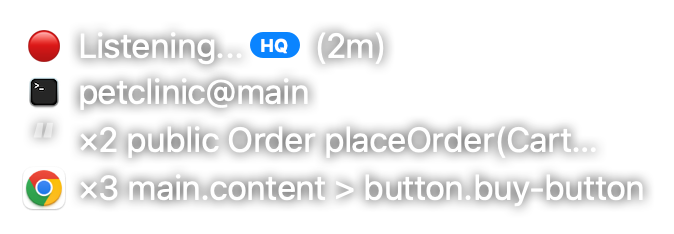
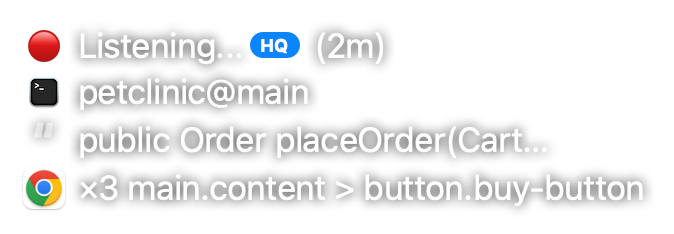
The highlight gets four seconds, then collapses to its count
The selection row carried the quoted highlight beside the cursor for the whole
dictation. Two different questions were riding one row with two different expiry
dates: at the instant a highlight lands he is asking *did this catch the thing I
meant?*, and his own words back are the whole answer — but once he has read them
the only open question left is whether any of them fell out, which a count
answers on its own. So the widest row on the chip was restating something already
checked, for as long as two minutes, an inch from what he is reading.

It now holds the words for four seconds and then drops them: `“ ×3`, and nothing
else. Victor's ask and his shape for it — *"citatul îl ții un pic acolo și apoi
îl colapsezi doar într-un număr"*.

- The hold belongs to every highlight now, not to the shutter's verb. It was
  2.5s and it only ever timed out the `selecting` prefix; the words underneath
  never went. The opening probe's highlight is as new to him as one a press read,
  so there is no reading on which one earns the seconds and the other does not.
- `×1` is written out, unlike `📸 ×N` and `🎯 ×N`, which say nothing at one. There
  the count is a prefix to something; here it is all that is left, so a row that
  went blank for the first highlight would read as one that lost it.
- `pinSelectionSettled()` is what lets the catalogue photograph the end state —
  `OverlayStates` sets a state up and shoots it in the same millisecond, so the
[…]

Changed region(s): [[0.0935, 0.5085, 0.9036, 0.688]]

diff --git a/Sources/WalkieTalkie/RelayWindow.swift b/Sources/WalkieTalkie/RelayWindow.swift
@@ -249,8 +249,17 @@ private let frontLabel = NSTextField(labelWithString: "")
     /// when there is no selection row at all.
     private var selectionCount = 0
     /// The selection row is announcing a highlight the shutter just caught, and
-    /// says `selecting` instead of the count for a couple of seconds.
+    /// says `selecting` in front of it while the words are still up.
     private var selectionAnnounced = false
+    /// The row has given the highlight its seconds and collapsed to `×N`.
+    ///
+    /// **The words are dropped, not shortened.** A highlight is read once, at
+    /// the moment it is caught — *did this catch the thing I meant?* — and from
+    /// then on the only open question is whether any of them fell out, which a
+    /// count answers on its own. Carrying 34 characters of somebody's code for
+    /// the rest of a two-minute sentence spends the widest row on the chip
+    /// restating something already checked, an inch from what he is reading.
+    private var selectionSettled = false
     private var selectionAnnounceWork: DispatchWorkItem?
     private var listening = false
     private var hovering = false
@@ -1457,11 +1466,15 @@ private let frontLabel = NSTextField(labelWithString: "")
         // chip now, and a label measured before it is written reports the
         // previous dictation's highlight.
         //
-        // `selecting` for the first beat after the shutter caught it, the count
-        // from then on. The two answer different questions: at the press he is
-        // asking *did this catch the thing I meant*, and the verb plus his own
-        // words back is the whole answer; a second later the only open question
-        // is whether any of them fell out, which is what `×N` is for.
+        // **The words for `selectionHold`, then the count alone.** The two answer
+        // different questions and only the first of them has an expiry date: at
+        // the moment a highlight is caught he is asking *did this catch the
+        // thing I meant*, and his own words back — with the verb in front when a
+        // press asked for them — is the whole answer; once he has read it the
+        // only open question is whether any of them fell out, which is what
+        // `×N` is for. So the row holds the quote long enough to be read and
+        // then collapses to a number, rather than carrying a line of somebody
+        // else's code beside the cursor for the rest of the sentence.
         //
         // **Clamped by characters, then measured** — the same bargain the
         // ⌘-pick row strikes one row up. Left out of the width, this row
@@ -1472,9 +1485,13 @@ private let frontLabel = NSTextField(labelWithString: "")
         // much as fits comfortably" means in a row that has to stay a receipt.
         var selectionWidth: CGFloat = 0
         if let selection = selection {
-            selectionHead = selectionAnnounced ? "selecting "
-                          : (selectionCount > 1 ? "×\(selectionCount) " : "")
-            selectionBody = Self.fitHead(singleLine(selection), 34)
+            if selectionSettled {
+                selectionHead = "×\(selectionCount)"
+                selectionBody = ""
+            } else {
+                selectionHead = selectionAnnounced ? "selecting " : ""
+                selectionBody = Self.fitHead(singleLine(selection), 34)
+            }
             applySelectionText()
             // Off the label rather than the font: the mark is in the icon column
             // now, so the text is plain `hintFont` — but it is set as an
@@ -2911,12 +2928,15 @@ private let frontLabel = NSTextField(labelWithString: "")
     // MARK: - Public API (main thread)
 
     /// `count` is how many highlights this dictation is now carrying, the frozen
-    /// one included. The row shows the **newest** and prefixes `×N` once there
-    /// is more than one — the same reading `📸 ×N` and `🎯 ×N` already use, and
-    /// for the same reason: what he can check at a glance is *that* the last
+    /// one included. The row shows the **newest** for `selectionHold` seconds and
+    /// then collapses to `×N` — the same reading `📸 ×N` and `🎯 ×N` already use,
+    /// and for the same reason: what he can check at a glance is *that* the last
     /// gesture landed, and the running total is what says none of the earlier
-    /// ones fell out. The row stays one line; a stack of them would push the
-    /// chip over the work it is riding on.
+    /// ones fell out. `×1` included, unlike the count on those rows: here the
+    /// number is what is left when the words go, so a row that showed nothing at
+    /// all for the first highlight would read as one that lost it. The row stays
+    /// one line; a stack of them would push the chip over the work it is riding
+    /// on.
     ///
     /// `announced` is the shutter saying it just read this one off the screen.
     /// It is **not** a flash: a flash is a panel, and the rule that keeps the
@@ -2935,21 +2955,40 @@ private let frontLabel = NSTextField(labelWithString: "")
         selectionAnnounceWork?.cancel()
         selectionAnnounceWork = nil
         selectionAnnounced = announced && selection != nil
-        if selectionAnnounced {
+        // **Every highlight gets the same seconds, announced or not.** The
+        // opening probe's is as new to him as one the shutter read — it is
+        // whatever he happened to have selected when he started talking — so
+        // there is no reading on which one of them deserves to be shown and the
+        // other does not.
+        selectionSettled = false
+        if selection != nil {
             let settle = DispatchWorkItem { [weak self] in
-                guard let self = self, self.selectionAnnounced else { return }
+                guard let self = self, self.selection != nil else { return }
                 self.selectionAnnounced = false
+                self.selectionSettled = true
                 self.layoutContent()
             }
             selectionAnnounceWork = settle
-            DispatchQueue.main.asyncAfter(deadline: .now() + Self.selectionAnnounceHold, execute: settle)
+            DispatchQueue.main.asyncAfter(deadline: .now() + Self.selectionHold, execute: settle)
         }
         layoutContent()
     }
 
-    /// Long enough to read a phrase beside a moving cursor, short enough that it
-    /// is gone before the next shot of the same sentence.
-    private static let selectionAnnounceHold: TimeInterval = 2.5
+    /// Long enough to read a phrase beside a moving cursor — Victor's number,
+    /// *"nu știu, 5-3 secunde"* — and short enough to be gone before the next
+    /// highlight of the same sentence lands on top of it.
+    private static let selectionHold: TimeInterval = 4
+
+    /// `OverlayStates` sets a state up and photographs it in the same
+    /// millisecond, so the four seconds above never pass there. This is the row
+    /// after they have — the same reason `pinListenWarmth` exists.
+    func pinSelectionSettled() {
+        selectionAnnounceWork?.cancel()
+        selectionAnnounceWork = nil
+        selectionAnnounced = false
+        selectionSettled = selection != nil
+        layoutContent()
+    }
 
     func clearSelection() { setSelection(nil, count: 0) }
 

diff --git a/docs/overlay-states.html b/docs/overlay-states.html
@@ -281,18 +281,18 @@
           <div class="tags"><span class="tag tag-chip" title="bare text beside the cursor — no blur, no shadow, no ✕">chip</span><span class="tag">alpha 0.80</span><span class="tag">289×93 pt</span></div>
         </header>
         <div class="shot"><img src="states/listening-selection.png" width="289" height="93" style="opacity:0.8" alt="Dictating, carrying a highlight"></div>
-        <p class="when">He had text selected when he started talking, or took a shot with a selection.</p>
-        <p class="note"><code>↪</code> and the highlight on one line, truncated. It rides along as a receipt only — the panel at the end shows it quoted in full, and widening the chip mid-sentence would throw a half-screen window over the thing he is reading.</p>
+        <p class="when">He had text selected when he started talking, or took a shot with a selection — for the four seconds after it lands.</p>
+        <p class="note">The quotation mark and the highlight on one line, truncated. It rides along as a receipt only — the panel at the end shows it quoted in full, and widening the chip mid-sentence would throw a half-screen window over the thing he is reading. Four seconds later it is the row below.</p>
         <code class="slug">listening-selection</code>
       </section>
       <section class="card" id="listening-selection-multi">
         <header>
-          <h3>Dictating, several highlights</h3>
-          <div class="tags"><span class="tag tag-chip" title="bare text beside the cursor — no blur, no shadow, no ✕">chip</span><span class="tag">alpha 0.80</span><span class="tag">314×93 pt</span></div>
+          <h3>A highlight, four seconds later</h3>
+          <div class="tags"><span class="tag tag-chip" title="bare text beside the cursor — no blur, no shadow, no ✕">chip</span><span class="tag">alpha 0.80</span><span class="tag">169×93 pt</span></div>
         </header>
-        <div class="shot"><img src="states/listening-selection-multi.png" width="314" height="93" style="opacity:0.8" alt="Dictating, several highlights"></div>
-        <p class="when">A second and third selection stashed with the side button during one sentence.</p>
-        <p class="note"><code>↪ ×3</code> — the count is the only thing that changes, because the newest one is the one he can still see in his editor.</p>
+        <div class="shot"><img src="states/listening-selection-multi.png" width="169" height="93" style="opacity:0.8" alt="A highlight, four seconds later"></div>
+        <p class="when">Every highlight ends here — the words have had their seconds and the row is the running count alone. Three of them, here.</p>
+        <p class="note"><code>×3</code> and nothing else. A highlight is read once, at the moment it is caught; from then on the only open question is whether any of them fell out, and a line of somebody else&#x27;s code beside the cursor for the rest of a two-minute sentence is the widest row on the chip restating something already checked. <code>×1</code> is written out too — the number is all that is left, so an empty row would read as a highlight that got lost.</p>
         <code class="slug">listening-selection-multi</code>
       </section>
       <section class="card" id="listening-selection-caught">
@@ -302,7 +302,7 @@
         </header>
         <div class="shot"><img src="states/listening-selection-caught.png" width="362" height="93" style="opacity:0.8" alt="The shutter caught a highlight"></div>
         <p class="when">For a beat after every side-button press that reads a new selection — including one in a Chrome page, which is where it used to read nothing at all.</p>
-        <p class="note">The verb, then his own words back, on the row that was going to carry them anyway — deliberately not a flash, since a flash is a panel and a shutter press must not throw one over the work he is photographing. It settles to <code>↪ ×N</code> after 2.5s, and it truncates to whatever width the rows above already gave the chip.</p>
+        <p class="note">The verb, then his own words back, on the row that was going to carry them anyway — deliberately not a flash, since a flash is a panel and a shutter press must not throw one over the work he is photographing. It collapses to <code>×N</code> after four seconds, and it truncates at 34 characters.</p>
         <code class="slug">listening-selection-caught</code>
       </section>
       <section class="card" id="listening-everything">
@@ -523,7 +523,7 @@
       </section>
     </div>
 <footer>
-  Generated from <code>OverlayStates.swift</code> · repo at b16d1f0 · 09 Sep 2026 · built 09 Sep 2026, 02:20
+  Generated from <code>OverlayStates.swift</code> · repo at 0d26e0d · 09 Sep 2026 · built 09 Sep 2026, 02:46
 </footer>
 <button class="toggle" onclick="document.body.classList.toggle('light')">Backdrop: dark / light</button>
 </body>

diff --git a/Sources/WalkieTalkie/OverlayStates.swift b/Sources/WalkieTalkie/OverlayStates.swift
@@ -179,26 +179,27 @@ enum OverlayStates {
             },
 
             Shot(slug: "listening-selection", group: "Dictating", title: "Dictating, carrying a highlight",
-                 when: "He had text selected when he started talking, or took a shot with a selection.",
-                 note: "`↪` and the highlight on one line, truncated. It rides along as a receipt only — the panel at the end shows it quoted in full, and widening the chip mid-sentence would throw a half-screen window over the thing he is reading.",
+                 when: "He had text selected when he started talking, or took a shot with a selection — for the four seconds after it lands.",
+                 note: "The quotation mark and the highlight on one line, truncated. It rides along as a receipt only — the panel at the end shows it quoted in full, and widening the chip mid-sentence would throw a half-screen window over the thing he is reading. Four seconds later it is the row below.",
                  shape: "chip", alpha: 0.80) { o in
                 o.setBound(label: "petclinic", folder: "petclinic@main", icon: terminal)
                 o.setListening(true)
                 o.setSelection(selection)
             },
 
-            Shot(slug: "listening-selection-multi", group: "Dictating", title: "Dictating, several highlights",
-                 when: "A second and third selection stashed with the side button during one sentence.",
-                 note: "`↪ ×3` — the count is the only thing that changes, because the newest one is the one he can still see in his editor.",
+            Shot(slug: "listening-selection-multi", group: "Dictating", title: "A highlight, four seconds later",
+                 when: "Every highlight ends here — the words have had their seconds and the row is the running count alone. Three of them, here.",
+                 note: "`×3` and nothing else. A highlight is read once, at the moment it is caught; from then on the only open question is whether any of them fell out, and a line of somebody else's code beside the cursor for the rest of a two-minute sentence is the widest row on the chip restating something already checked. `×1` is written out too — the number is all that is left, so an empty row would read as a highlight that got lost.",
                  shape: "chip", alpha: 0.80) { o in
                 o.setBound(label: "petclinic", folder: "petclinic@main", icon: terminal)
                 o.setListening(true)
                 o.setSelection(selection, count: 3)
+                o.pinSelectionSettled()
             },
 
             Shot(slug: "listening-selection-caught", group: "Dictating", title: "The shutter caught a highlight",
                  when: "For a beat after every side-button press that reads a new selection — including one in a Chrome page, which is where it used to read nothing at all.",
-                 note: "The verb, then his own words back, on the row that was going to carry them anyway — deliberately not a flash, since a flash is a panel and a shutter press must not throw one over the work he is photographing. It settles to `↪ ×N` after 2.5s, and it truncates to whatever width the rows above already gave the chip.",
+                 note: "The verb, then his own words back, on the row that was going to carry them anyway — deliberately not a flash, since a flash is a panel and a shutter press must not throw one over the work he is photographing. It collapses to `×N` after four seconds, and it truncates at 34 characters.",
                  shape: "chip", alpha: 0.80) { o in
                 o.setBound(label: "petclinic", folder: "petclinic@main", icon: terminal)
                 o.setListening(true)

diff --git a/CLAUDE.md b/CLAUDE.md
@@ -1725,8 +1725,32 @@ deliberate act with a deliberate subject; the ⌘C is a price he asked to pay, a
 with nothing selected the probe is a no-op nothing notices. `readQuiet` is gone —
 it had no other caller.
 
-**The chip says `“ selecting <his own words>` for 2.5s** and then settles to
-`“ ×N …`.
+**The chip says `“ selecting <his own words>` for four seconds** and then
+collapses to `“ ×N` — the words dropped, not shortened (2026-09-09, Victor:
+*"citatul îl ții un pic acolo și apoi îl colapsezi doar într-un număr"*).
+
+It carried the highlight for the rest of the sentence until then, and the two
+readings have different expiry dates. At the instant it lands he is asking *did
+this catch the thing I meant?*, and his own words back are the whole answer;
+once he has read them the only open question is whether any of them fell out,
+which a count answers on its own. The old arrangement spent the widest row on
+the chip restating something already checked, for as long as two minutes, an
+inch from what he is reading.
+
+- **Four seconds, and the hold is now every highlight's, not the shutter's.**
+  It was 2.5s and it only existed to time out the verb; the words underneath it
+  never went. The opening probe's highlight is as new to him as one a press read
+  — it is whatever he happened to have selected when he started talking — so
+  there is no reading on which one of them earns the seconds and the other does
+  not.
+- **`×1` is written out**, unlike `📸 ×N` and `🎯 ×N`, which say nothing at one.
+  On those rows the count is a prefix to something; here it is *all that is
+  left*, so a row that went blank for the first highlight would read as one that
+  lost it.
+- **`pinSelectionSettled()` is what lets the catalogue photograph it** —
+  `OverlayStates` sets a state up and shoots it in the same millisecond, so the
+  four seconds never pass there. Same reason `pinListenWarmth` exists, and
+  `listening-selection-multi` is now that state: `×3` and nothing else.
 
 **The mark is the panel's, shrunk** (since 2026-09-02, Victor's ask). The row led
 with `↪`, an arrow — *this came from somewhere*, where what has to be said is
@@ -1745,17 +1769,18 @@ paragraphs below. **The receipt is not behind the novelty test, the filing is**:
 the three skipped cases are presses that *did* catch a highlight — the frozen one
 he never let go of, the same one shot twice — and a shutter that says nothing
 there reads as one that missed, which is the failure the row exists to rule out.
-The message still carries each highlight exactly once. The row was already going to carry the highlight for the rest of the
-sentence, which answers *is it still there* but not the question he has at the
-instant he presses — *did this catch the thing I meant?* A picture is taken
+The message still carries each highlight exactly once. The row carries the
+highlight for four seconds either way, which answers *is it still there* but not
+the question he has at the instant he presses — *did this catch the thing I
+meant?* A picture is taken
 silently and a selection is read silently, so without the verb the only
 confirmation the shutter grabbed the right paragraph arrived in the terminal, a
 sentence too late to reselect.
 
 **It is deliberately not a `flash(_:)`.** A flash *replaces* the chip for a
-second and a half, and the receipt has to sit beside the text it is about for the
-rest of the sentence — so the row that was going to carry the highlight anyway is
-where it goes. (When this was written a flash was also a *panel*, thrown across
+second and a half, and the receipt has to sit beside the text it is about — so
+the row that carries the highlight anyway is where it goes, and the two now end
+together, since the words go when the four seconds do. (When this was written a flash was also a *panel*, thrown across
 the work being photographed; that half of the argument is gone since 2026-09-02,
 and the other half is enough.)
 
@@ -1779,7 +1804,8 @@ It rides the outbox as **`selections`** — `[{at: "0:31", text: …}]` — whil
 learn a key to keep working. In the terminal line they are stamped
 (`[selected 0:31: …]`), because a second bare `[selected: …]` beside the first
 is two highlights with no way to tell which came from where in the sentence.
-The chip shows the newest with `↪ ×N`, the same idiom as `📸 ×N` and `🎯 ×N`.
+The chip shows the newest for four seconds and then the count alone — see
+*The shutter also takes the selection* for why the words go.
 
 ## A highlight is picked up on its own (2026-09-09)
 
